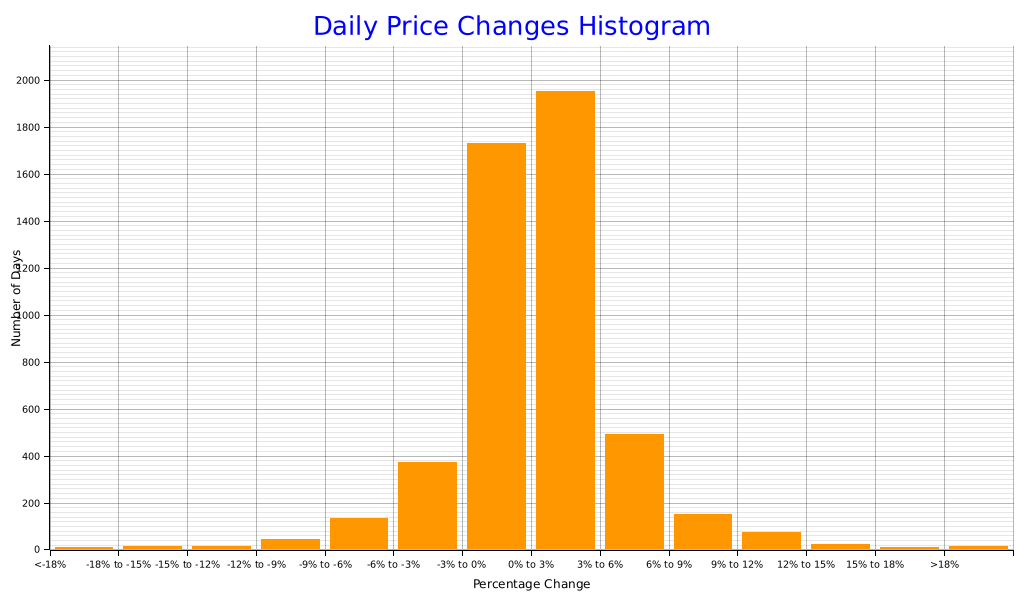
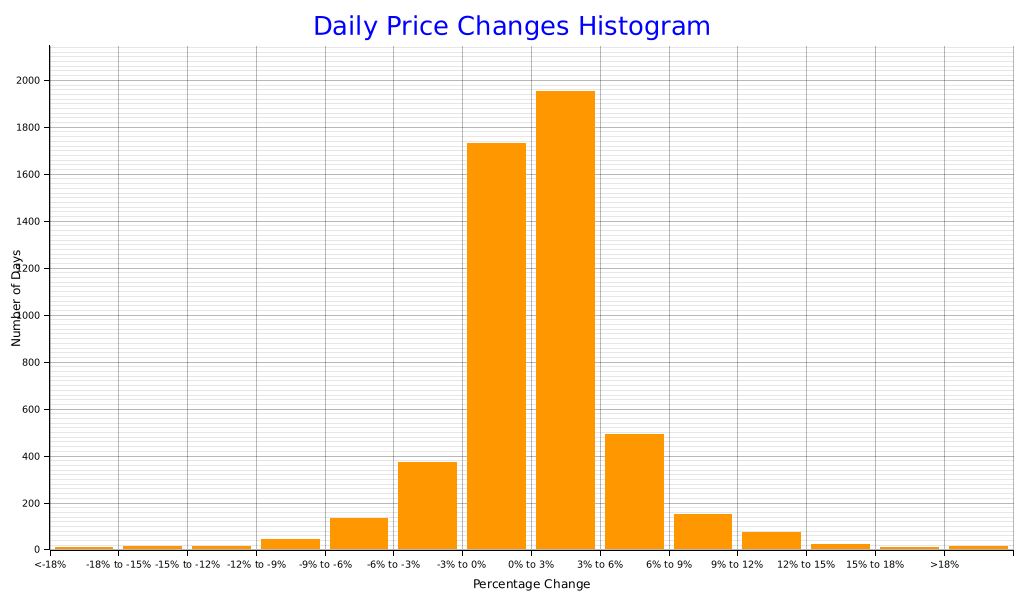
deploy: 61ca350966e8b5be88cda5a8884441935897b4d6

diff --git a/index.html b/index.html
@@ -34,7 +34,7 @@
           <td>124,457.11</td>
           <td>74,436.67</td>
           <td></td>
-          <td>12,744,777,531,392.0</td>
+          <td>12,744,669,528,064.0</td>
         </tr>
         <tr>
           <td class='yearly-summary-year'>2024</td>
@@ -186,11 +186,11 @@
         </tr>
         <tr>
           <td>-3% to 0%</td>
-          <td>1731</td>
+          <td>1730</td>
         </tr>
         <tr>
           <td>0% to 3%</td>
-          <td>1950</td>
+          <td>1951</td>
         </tr>
         <tr>
           <td>3% to 6%</td>
@@ -227,7 +227,7 @@
     <br><br>
     <a href='https://github.com/bitcoin-tools/btracker'>Link to the report codebase</a>
     <br><br>
-    This report was last updated at 2025-09-14 08:25:25.601746596 UTC.
+    This report was last updated at 2025-09-14 08:44:06.598290844 UTC.
     <br><br>
     <div class='scrollable-table'>
       <table>
@@ -251,12 +251,12 @@
             <td>115,951.90</td>
             <td>116,098.96</td>
             <td>115,548.96</td>
-            <td>115,900.91</td>
-            <td class='wma-column'>52,514.19</td>
-            <td>36.02 (0.06 %)</td>
-            <td>50,434.07 (77.0 %)</td>
+            <td>115,980.73</td>
+            <td class='wma-column'>52,514.25</td>
+            <td>36.07 (0.06 %)</td>
+            <td>50,513.89 (77.1 %)</td>
             <td>550.00 (0.4 %)</td>
-            <td>-49.59 (0.0 %)</td>
+            <td>30.22 (0.0 %)</td>
           </tr>
           <tr>
             <td>2025-09-13</td>
